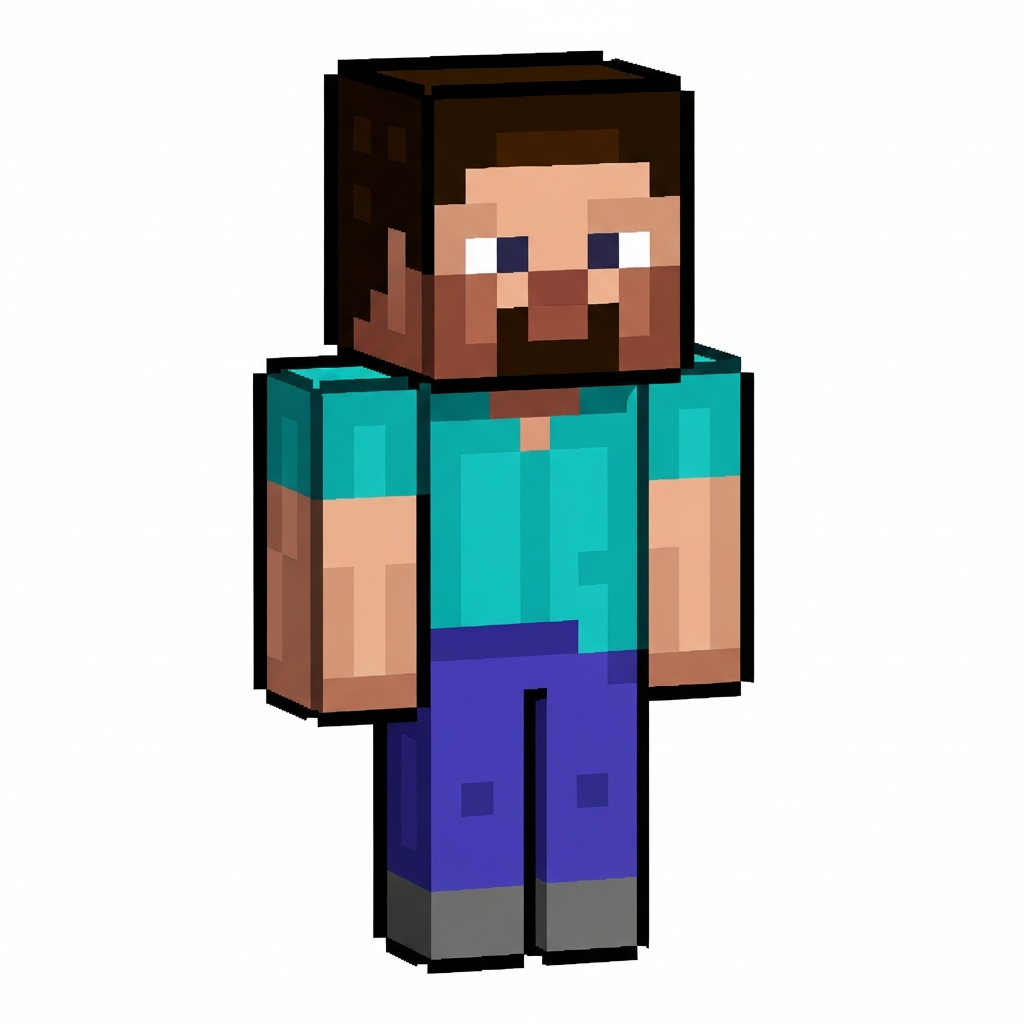
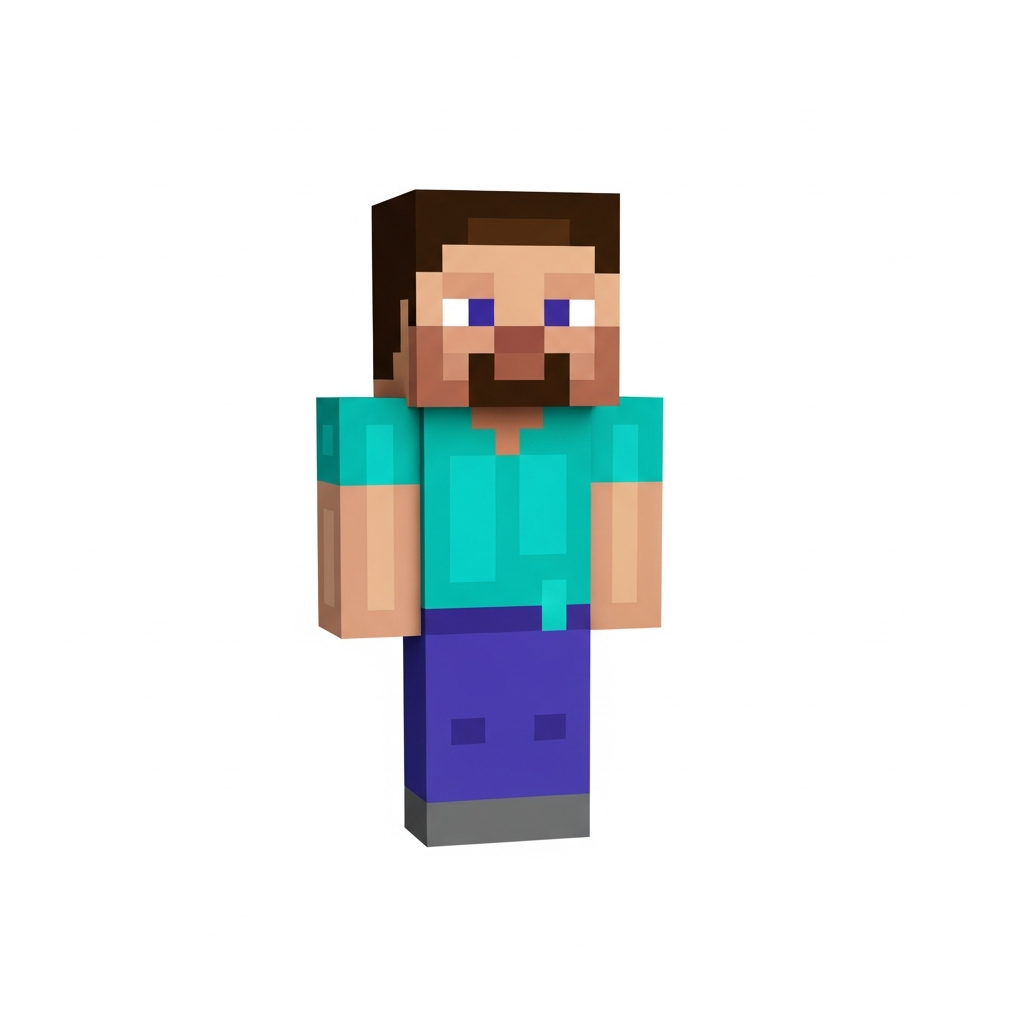
Improve character appearance by making its background transparent
Update the character component's CSS to use `mix-blend-mode: multiply` for a transparent background effect.

Replit-Commit-Author: Agent
Replit-Commit-Session-Id: 89d4ca53-94a7-43e7-b305-6567acb98e56
Replit-Commit-Checkpoint-Type: full_checkpoint
Replit-Commit-Event-Id: b6bfbe75-1d8b-4f9e-ba7d-281a78a69d50
Replit-Commit-Screenshot-Url: https://storage.googleapis.com/screenshot-production-us-central1/bc9679e7-6c9b-4dbf-b95e-d7e5d2893240/89d4ca53-94a7-43e7-b305-6567acb98e56/V1Qrwwi
Replit-Helium-Checkpoint-Created: true

Changed region(s): [[0.25, 0.0312, 0.75, 0.9688]]

diff --git a/client/src/pages/Game.tsx b/client/src/pages/Game.tsx
@@ -274,7 +274,7 @@ export default function Game() {
             alt="Character"
             animate={{ y: [0, -15, 0] }}
             transition={{ duration: 3, repeat: Infinity, ease: "easeInOut" }}
-            className="w-40 absolute -top-32 left-1/2 -translate-x-1/2 drop-shadow-[0_4px_0_rgba(0,0,0,0.5)] z-20"
+            className="w-40 absolute -top-32 left-1/2 -translate-x-1/2 drop-shadow-[0_4px_0_rgba(0,0,0,0.5)] z-20 [mix-blend-mode:multiply]"
           />
           
           <AnimatePresence mode="wait">
